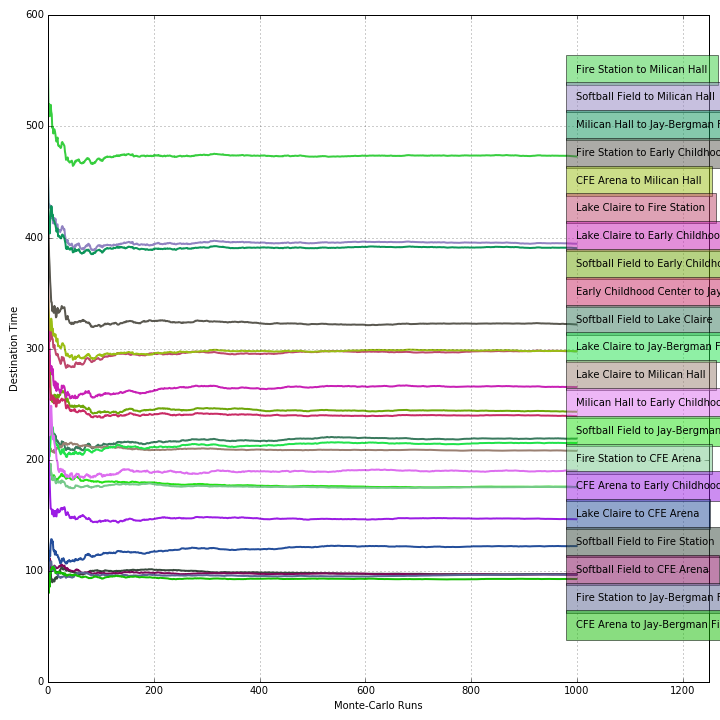
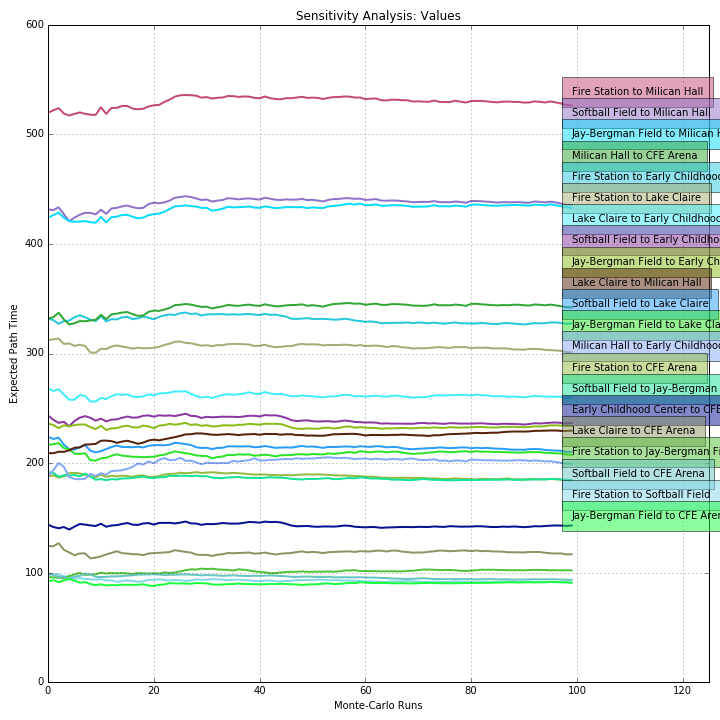
Monte Carlo Alignment and Sensitivity Analysis Update
Updates:
- Overhauled time sampling for shortest path
> Previously, times were randomly sampled from a normal distribution and
added to timeGen. Each value of timeGen was used as the "expected" time
for each iteration. Thus, when the best path solution was being found,
the edges had effectively random weights for each iteration - resulting
in an extreme variation in recommended paths and low confidence.
> Now, randomly sampled times are still drawn, but instead of being used
directly, they are added to the sum of all times from both inputs and
samples. The sum is divided by the number of times to get the average,
and this average is calculated and used for each iteration. Thus, the
"expected" time value for each iteration aligns more with the
traditional definition of an expected value while still retaining a
degree of noise - aligning the model to a proper Monte Carlo type rather
than a simple randomization one.
- Fixed issue where sensitivity analysis would not properly scale labels
and cause program to hang
- Added additional sensitivity analysis diagrams
> Values, Average, Range, Highest Value, Lowest Value
> Sensitivity analysis based on variation caused large strain on
resources; consider alternative manner of calculation

Todo:
- Replace placeholder elevations with values from a recent topographical
map
- Fix sensitivity graph labels to not have large variation in spacing
- Finalize results and compile report
- Reflect results of report onto poster

diff --git a/src/func_relationship_graphing.py b/src/func_relationship_graphing.py
@@ -3,9 +3,9 @@
 import numpy
 import pylab
 import matplotlib.pyplot as plt
-from statistics import mean
+from statistics import stdev
 
-def lineAndLabel(netPathMatrix,netNodeAttr,yparam,netNumRuns,xlabelparam,ylabelparam,figureiter):
+def lineAndLabel(labelType,netPathMatrix,netNodeAttr,yparam,netNumRuns,xlabelparam,ylabelparam,figureiter):
     #Set the matplotlib figure to a new figure and setup x and y values
     canvas = plt.figure(figureiter,figsize=(10,10)); 
     #Define the matrix of 1x1 to place subplots
@@ -13,7 +13,7 @@ def lineAndLabel(netPathMatrix,netNodeAttr,yparam,netNumRuns,xlabelparam,ylabelp
     sp = canvas.add_subplot(1,1,1, axisbg='w')
     pylab.xlim([0,netNumRuns+(netNumRuns/4)])
     #Iterate through every possible combination of paths
-    keyList = list(); keyMap = list(); keyRepeat = False; numElements = 0; largestVal = 0; keyVals = list()
+    keyList = list(); keyMap = list(); keyRepeat = False; numElements = 0; largestVal = 0; smallestVal = False; largestRange = 0; 
     for i in netNodeAttr.keys():
         keyList.append(i); keyRepeat = False
         for j in netNodeAttr.keys():
@@ -25,16 +25,73 @@ def lineAndLabel(netPathMatrix,netNodeAttr,yparam,netNumRuns,xlabelparam,ylabelp
             #Iterate through every entry for every run to plot out points        
             relationX = list(); relationY = list()
             numElements += 1; keySum = 0
-            #print("Determining averages for {0} to {1}...".format(i,j))
             for runIter in range(0,netNumRuns):
-                #Determine the average for the number of iterations so far
-                val = netPathMatrix[(i,j)][1][runIter][yparam]
-                keySum += val
-                #Map the average to the y value and the run to the x value
-                relationY.append(keySum/(runIter+1))
-                relationX.append(runIter)
-                #Record the largest value among all paths for display text sorting
-                if keySum/(runIter+1) > largestVal: largestVal = keySum/(runIter+1)
+                #Graph Type 0: Raw values
+                if labelType == 0:
+                    #Determine the value for the iteration
+                    val = netPathMatrix[(i,j)][1][runIter][yparam]
+                    #Map the iteration value to the y value and the run to the x value
+                    relationY.append(val)
+                    relationX.append(runIter)
+                    #Record the largest value among all paths for display text sorting
+                    if val > largestVal: largestVal = val
+                    #If on the final run, label the graph with the type
+                    if runIter == netNumRuns-1: sp.set_title("Sensitivity Analysis: Values")
+                #Graph type 1: Averages
+                elif labelType == 1:
+                    #Determine the average for the number of iterations so far
+                    val = netPathMatrix[(i,j)][1][runIter][yparam]
+                    keySum += val
+                    #Map the average to the y value and the run to the x value
+                    relationY.append(keySum/(runIter+1))
+                    relationX.append(runIter)
+                    #Record the largest value among all paths for display text sorting
+                    if keySum/(runIter+1) > largestVal: largestVal = keySum/(runIter+1)
+                    #If on the final run, label the graph with the type
+                    if runIter == netNumRuns-1: sp.set_title("Sensitivity Analysis: Averages")
+                #Graph type 2: Range
+                elif labelType == 2:
+                    #Determine the value for the iteration
+                    val = netPathMatrix[(i,j)][1][runIter][yparam]
+                    #Record the largest and smallest value among all paths
+                    if val > largestVal: largestVal = val
+                    elif type(smallestVal)!=type(1): smallestVal = val
+                    elif val < smallestVal: smallestVal = val
+                    #Determine the range
+                    keyRange = largestVal-smallestVal
+                    #If this is the second iteration, set the first value to the be the same for consistency
+                    if runIter==1: relationY[0] = keyRange
+                    #Map the range to the y value and the run to the x value
+                    relationY.append(keyRange)
+                    relationX.append(runIter)
+                    #Record the largest range among all paths
+                    if keyRange > largestRange: largestRange = keyRange
+                    #If on the final run, label the graph with the type
+                    if runIter == netNumRuns-1: sp.set_title("Sensitivity Analysis: Range")
+                #Graph type 3: Largest Value
+                elif labelType == 3:
+                    #Determine the value for the iteration
+                    val = netPathMatrix[(i,j)][1][runIter][yparam]
+                    #Record the largest value among all paths
+                    if val > largestVal: largestVal = val
+                    #Map the largest value to the y value and the run to the x value
+                    relationY.append(largestVal)
+                    relationX.append(runIter)
+                    #If on the final run, label the graph with the type
+                    if runIter == netNumRuns-1: sp.set_title("Sensitivity Analysis: Largest Value")
+                #Graph type 4: Smallest Value
+                elif labelType == 4:
+                    #Determine the value for the iteration
+                    val = netPathMatrix[(i,j)][1][runIter][yparam]
+                    #Record the largest and smallest value among all paths
+                    if val > largestVal: largestVal = val
+                    if type(smallestVal)!=type(1): smallestVal = val
+                    elif val < smallestVal: smallestVal = val
+                    #Map the smallest value to the y value and the run to the x value
+                    relationY.append(smallestVal)
+                    relationX.append(runIter)
+                    #If on the final run, label the graph with the type
+                    if runIter == netNumRuns-1: sp.set_title("Sensitivity Analysis: Smallest Value")
             #Generate a random color and convert to a hex string
             colorRand = (255*numpy.random.uniform(0,1),255*numpy.random.uniform(0,1),255*numpy.random.uniform(0,1))
             colorRandStr = '#'+colorRand[0].hex()[4:6]+colorRand[1].hex()[4:6]+colorRand[2].hex()[4:6]
@@ -50,12 +107,15 @@ def lineAndLabel(netPathMatrix,netNodeAttr,yparam,netNumRuns,xlabelparam,ylabelp
         for i in keyMap:
             if i[3] > largestKey[3]: largestKey = i
         keyMapSorted.append(largestKey)
-        keyMap.remove(largestKey)
+        try: keyMap.remove(largestKey)
+        except: print("ERROR: Could not remove largestKey {0}".format(largestKey))
         if iterable>50: raise(IndexError)
     for i in keyMapSorted:
         #Display the text labels; ordered from top to bottom and uniformly distributed
         i_iter+=1
-        sp.text(netNumRuns-1,largestVal-((i_iter-1)*25),'{0} to {1}'.format(i[0],i[1]),bbox={'facecolor':i[2], 'alpha':0.5, 'pad':10}, color = 'black',horizontalalignment='left')
+        if labelType<2 or labelType==4: sp.text(netNumRuns-1,largestVal-((i_iter-1)*stdev(relationY)*12),'{0} to {1}'.format(i[0],i[1]),bbox={'facecolor':i[2], 'alpha':0.5, 'pad':10}, color = 'black',horizontalalignment='left')
+        elif labelType==2: sp.text(netNumRuns-1,largestRange-((i_iter-1)*stdev(relationY)*6),'{0} to {1}'.format(i[0],i[1]),bbox={'facecolor':i[2], 'alpha':0.5, 'pad':10}, color = 'black',horizontalalignment='left')
+        elif labelType==3: sp.text(netNumRuns-1,i[3],'{0} to {1}'.format(i[0],i[1]),bbox={'facecolor':i[2], 'alpha':0.5, 'pad':10}, color = 'black',horizontalalignment='left')
     # Put the title and labels
     sp.set_xlabel(xlabelparam)
     sp.set_ylabel(ylabelparam)
@@ -73,16 +133,28 @@ def relationshipGraphSetup(netPathMatrix,netNodeAttr,netNumRuns):
     #Setup variable for outputting relationship data
     relationData = list()
     #Iterate through each figure for its own graph output type  
-    #TODO: Currently causes program to hang when performed for fuel consumed; fix issue without losing modularity
-    for figureiter in range(2,3):
+    figureiter = 1
+    for graphiter in range(2,4):
         #Set the parameters each graph will use and their respective labeling
-        if (figureiter==2): 
-            yparam = 2; xlabel = 'Monte-Carlo Runs'; ylabel = 'Destination Time'
-        elif (figureiter==3): 
-            yparam = 5; xlabel = 'Monte-Carlo Runs'; ylabel = 'Fuel Consumed on Path'
-        #Plot out the points, make a best-fit line, and save the relationship data
-        relationData = lineAndLabel(netPathMatrix,netNodeAttr,yparam,netNumRuns,xlabel,ylabel,figureiter)
+        for typeiter in range(0,5):
+            figureiter+=1
+            if (graphiter==2): 
+                labelType = typeiter; yparam = 2; xlabel = 'Monte-Carlo Runs'; ylabel = 'Expected Path Time'
+            elif (graphiter==3): 
+                labelType = typeiter; yparam = 5; xlabel = 'Monte-Carlo Runs'; ylabel = 'Expected Fuel Consumed on Path'
+            #Plot out the points, make a best-fit line, and save the relationship data
+            print(graphiter,typeiter,graphiter*(typeiter+1))
+            relationData = lineAndLabel(labelType,netPathMatrix,netNodeAttr,yparam,netNumRuns,xlabel,ylabel,figureiter)
     #Finally, set the figure to a new entry for the model itself
     plt.figure(1)
     #Return the relationship data    
+    keyList = list(); 
+    for i in netNodeAttr.keys():
+        keyList.append(i); keyRepeat = False
+        for j in netNodeAttr.keys():
+            #Do not map paths that have already been mapped in reverse
+            for k in keyList: 
+                if j == k: keyRepeat = True; break
+            #Do not map paths that have the same destinaton and source
+            if i == j or keyRepeat == True: keyRepeat = False; continue
     return relationData

diff --git a/src/func_network_operations.py b/src/func_network_operations.py
@@ -189,8 +189,12 @@ def calc_edge_weights(graph,netNodeAttr,netEdgeAttr,netNumRuns,netObstructChance
         #Before throwing an exception, check if networkX ordered the key backwards
         try: edgeInfo=netEdgeAttr[str(node1+','+node2)]
         except KeyError: edgeInfo=netEdgeAttr[str(node2+','+node1)]
-        #Get the average and standard deviation of recorded times
-        timeAvg = mean(edgeInfo[1]); timeStd = stdev(edgeInfo[1]);
+        #Sum up all the recorded times
+        timeSum = sum(edgeInfo[1]); timeCnt = len(edgeInfo[1]); timeSumSqr = 0
+        #Solve for sum of squares of recorded times
+        for j in range(0,len(edgeInfo[1])): timeSumSqr+=pow(edgeInfo[1][j],2)
+        #Obtain the average and standard deviation of recorded times
+        timeAvg = timeSum/timeCnt; timeStd = math.sqrt((timeSumSqr/timeCnt)-pow(timeAvg,2))
         #Create a list for time generated based on Gaussian distribution
         #Create a list for all the weights and fuel costs calculated
         timeGen = list(); weight_list = list(); fuelCost = list()
@@ -200,7 +204,15 @@ def calc_edge_weights(graph,netNodeAttr,netEdgeAttr,netNumRuns,netObstructChance
         heightdelta = netNodeAttr[node1][4]-netNodeAttr[node2][4]
         for i in range(0,netNumRuns): 
             #Generate a time based on Gaussian distribution of input times
-            timeGen.append(abs(random.normal(timeAvg,timeStd,None)))
+            timeSingleGen = abs(random.normal(timeAvg,timeStd,None))
+            #Add the generated time to the list of recorded times
+            edgeInfo[1].append(timeSingleGen)
+            #Update the sum and count for the lists
+            timeSum+=timeSingleGen; timeCnt+=1; timeSumSqr+=pow(timeSingleGen,2)
+            #Update the average and standard deviation of the times with noise
+            timeAvg = timeSum/timeCnt; timeStd = math.sqrt((timeSumSqr/timeCnt)-pow(timeAvg,2))
+            #Add the average time to the list of times to pick from for shortest path calculations
+            timeGen.append(timeAvg)
             #Add this time to the list of weights
             weight_list.append(timeGen[i])
             #Obtain the fuel consumed

diff --git a/src/main_matrix_model.py b/src/main_matrix_model.py
@@ -252,7 +252,7 @@ else:
     #Set default user input variable
     userResponse = 'y'
     #Set a user prompt variable (0: ask to continue, 1: confirm prediction, 2: continue, 3: ask for real location)
-    userPrompt = 2ana    #Perform main operations
+    userPrompt = 2    #Perform main operations
     while wantClose == False:
         #If we have finished an operation, prompt the user to continue
         if (mainData[6]>1) and userPrompt == 0:
